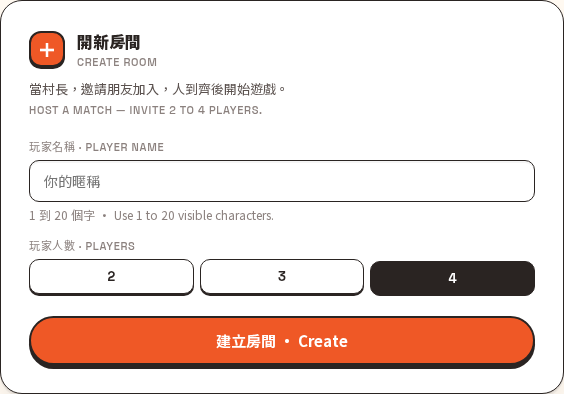
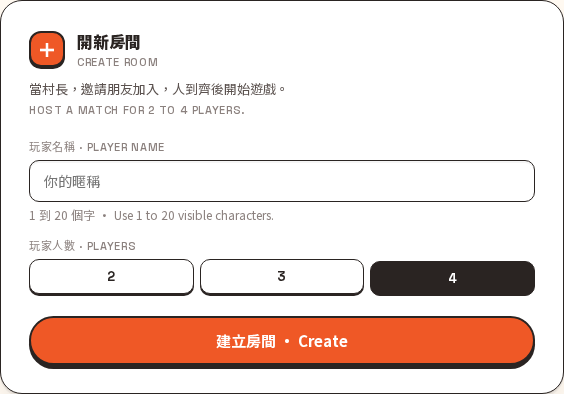
fix(webapp): enforce 2–4 players on rematch and socket match creation (#455)
boardgame.io checks minPlayers/maxPlayers only on /create, so playAgain
and socket on-demand creation accepted any numPlayers. validateSetupData
runs on every server-side createMatch path. Extend the regression test to
cover playAgain, and reword the lobby copy: the host fills a seat, so
"invite 2 to 4 players" overcounted invitees.

diff --git a/packages/webapp/src/server/playerCount.test.ts b/packages/webapp/src/server/playerCount.test.ts
@@ -2,18 +2,26 @@ import type { AddressInfo } from 'node:net';
 import { Server } from 'boardgame.io/server';
 import { OpenStarTerVillage } from '@/game/game';
 
-test('the lobby API creates matches for 2 to 4 players only (#455)', async () => {
+test('the lobby API creates and rematches only 2 to 4 player matches (#455)', async () => {
   const server = Server({ games: [OpenStarTerVillage], origins: ['http://localhost'] });
   const running = await server.run(0);
-  const base = `http://localhost:${(running.appServer.address() as AddressInfo).port}`;
-  const create = (numPlayers: number) =>
-    fetch(`${base}/games/${OpenStarTerVillage.name}/create`, {
+  const base = `http://localhost:${(running.appServer.address() as AddressInfo).port}/games/${OpenStarTerVillage.name}`;
+  const post = (path: string, body: object) =>
+    fetch(`${base}${path}`, {
       method: 'POST',
       headers: { 'Content-Type': 'application/json' },
-      body: JSON.stringify({ numPlayers }),
-    }).then(response => response.status);
+      body: JSON.stringify(body),
+    });
+  const create = (numPlayers: number) => post('/create', { numPlayers }).then(response => response.status);
+  const playAgain = async (numPlayers: number) => {
+    const { matchID } = await (await post('/create', { numPlayers: 2 })).json();
+    const { playerCredentials } = await (await post(`/${matchID}/join`, { playerID: '0', playerName: 'Host' })).json();
+    const response = await post(`/${matchID}/playAgain`, { playerID: '0', credentials: playerCredentials, numPlayers });
+    return response.status;
+  };
   try {
     expect(await Promise.all([1, 2, 3, 4, 5].map(create))).toEqual([400, 200, 200, 200, 400]);
+    expect(await Promise.all([1, 2, 4, 5].map(playAgain))).toEqual([400, 200, 200, 400]);
   } finally {
     running.appServer.closeAllConnections();
     await new Promise<void>(resolve => running.appServer.close(() => resolve()));

diff --git a/packages/webapp/src/app/lobby/page.tsx b/packages/webapp/src/app/lobby/page.tsx
@@ -222,7 +222,7 @@ export default function LobbyPage() {
             <p style={{ fontSize: 13, color: 'var(--ink-soft)', lineHeight: 1.5, marginTop: 10 }}>
               當村長，邀請朋友加入，人到齊後開始遊戲。
               <br />
-              <span className="en-cap">Host a match — invite 2 to 4 players.</span>
+              <span className="en-cap">Host a match for 2 to 4 players.</span>
             </p>
 
             <div style={{ marginTop: 20, display: 'flex', flexDirection: 'column', gap: 14 }}>

diff --git a/packages/webapp/src/game/game.ts b/packages/webapp/src/game/game.ts
@@ -16,6 +16,9 @@ export const OpenStarTerVillage: Game<GameState, Record<string, unknown>, GameSe
   name: 'OpenStarTerVillage',
   minPlayers: 2,
   maxPlayers: 4,
+  // boardgame.io checks min/maxPlayers only on /create; this also covers playAgain.
+  validateSetupData: (_setupData, numPlayers) =>
+    numPlayers >= 2 && numPlayers <= 4 ? undefined : 'numPlayers must be 2 to 4',
   setup: setup,
   turn: {
     /**
